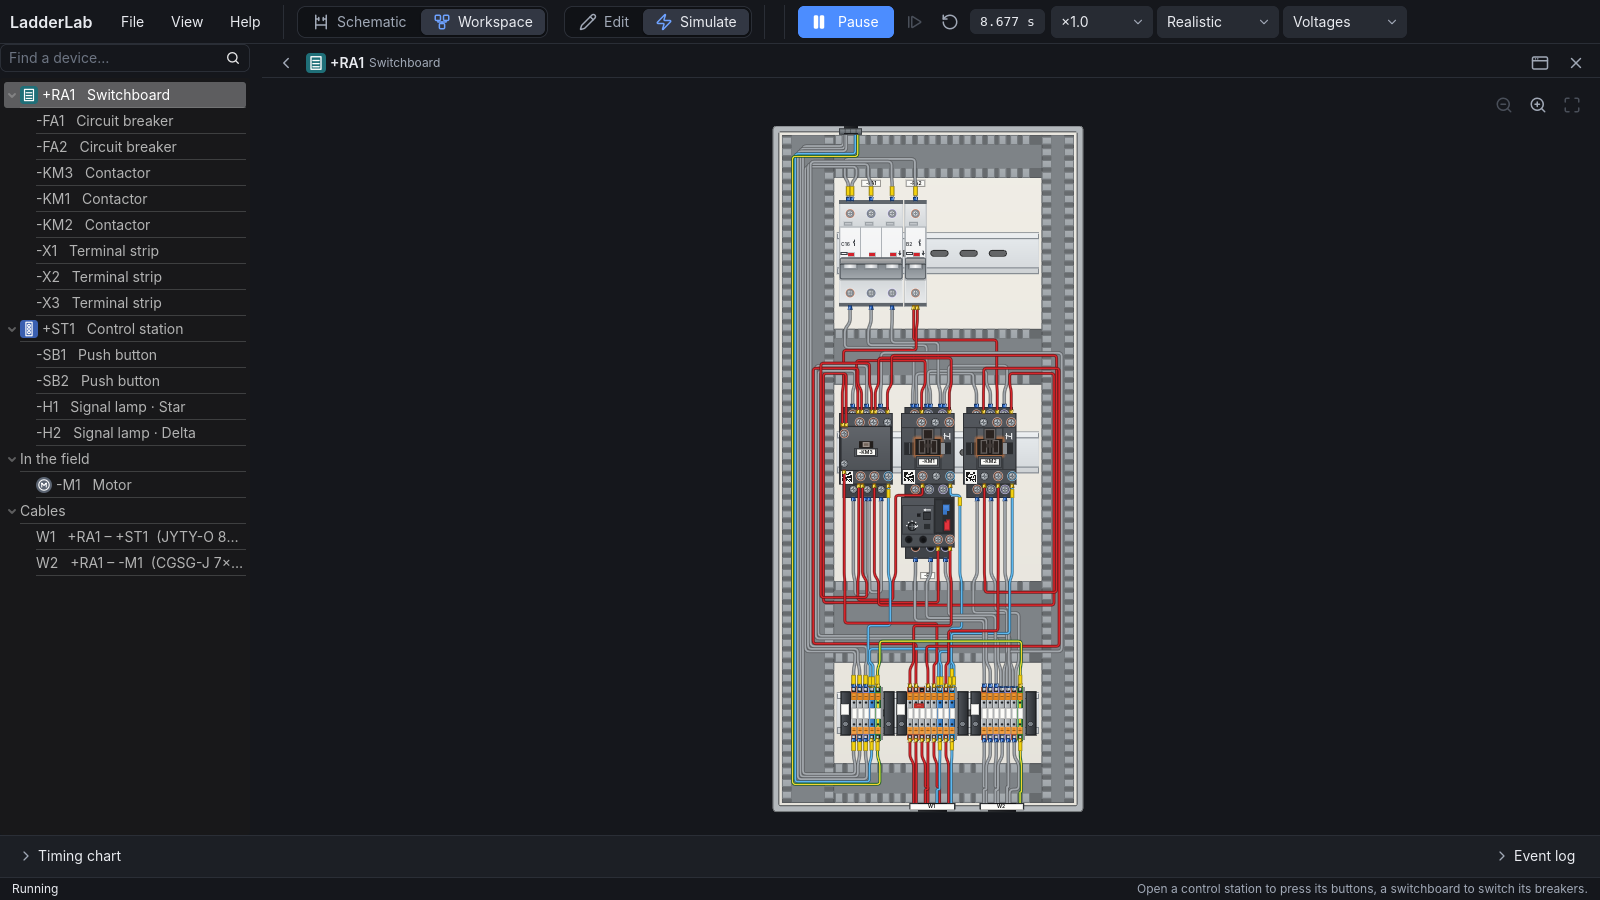
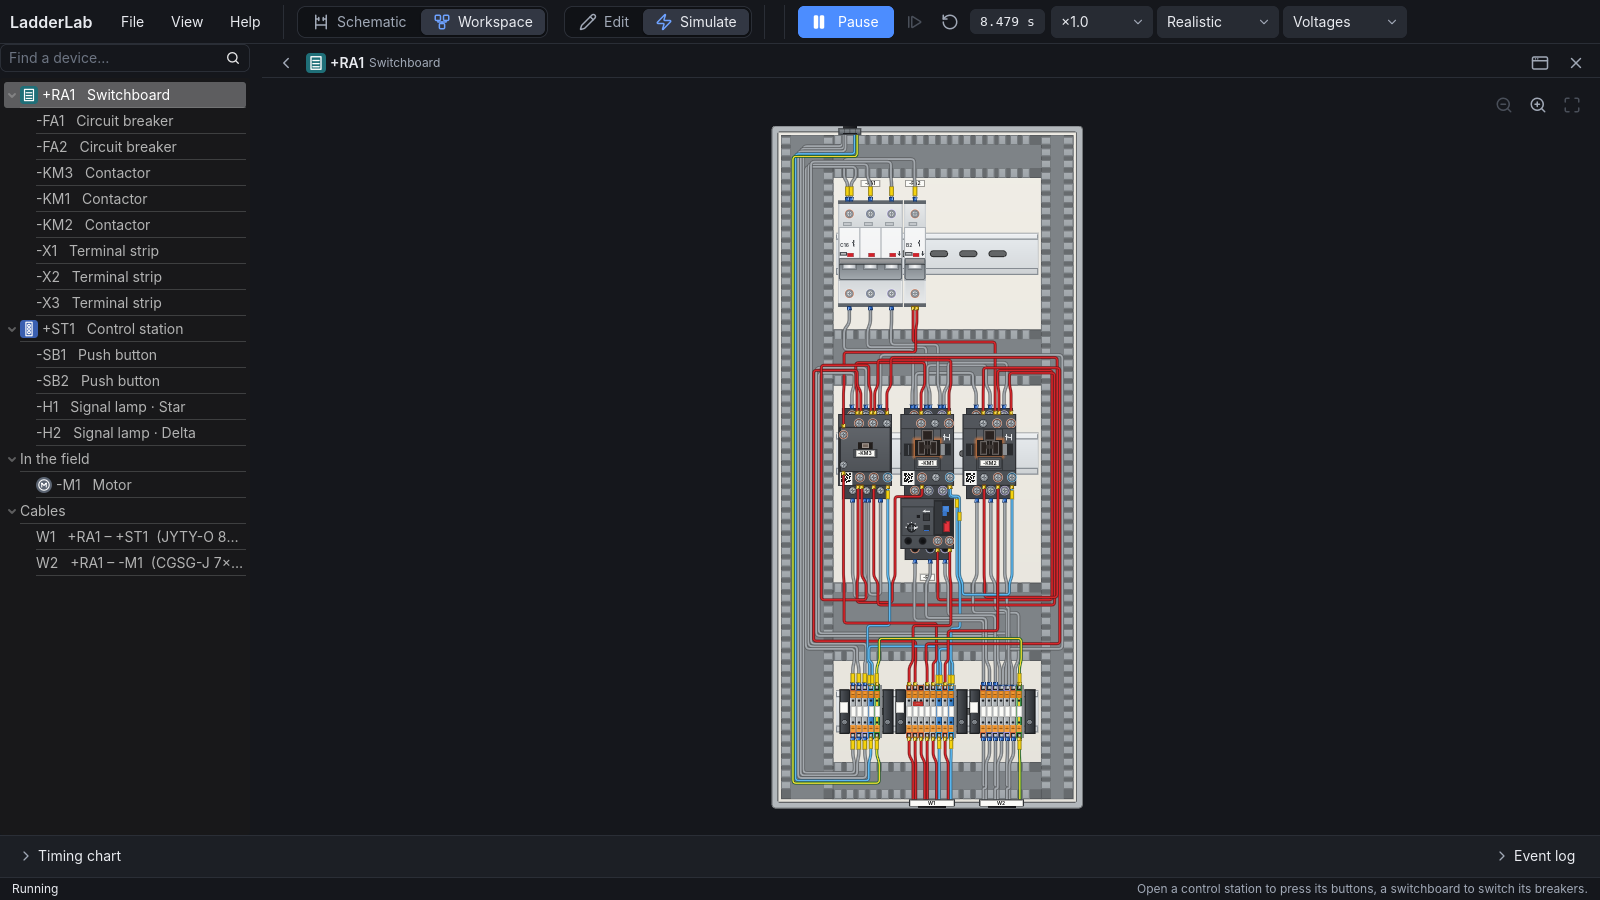
At most two wires in a switchboard terminal's clamp
The wiring tree of a net gives no terminal's clamp more than two wires:
where it would branch the net is looped from terminal to terminal (a
plug-in bridge takes no wire, a clamp keeps room for a wire on to
another switchboard). In the example circuits this is never longer than
branching: total wire length +0.1 %.

Changed region(s): [[0.4688, 0.1556, 0.6875, 0.9022], [0.6562, 0.2178, 0.6875, 0.2489]]

diff --git a/docs/DEVELOPMENT.md b/docs/DEVELOPMENT.md
@@ -312,7 +312,9 @@ Architecture and conventions of the code base. Read this before changing the cod
   the picked terminals along the strip), else by label; neighbouring terminals of one net
   are joined by a plug-in bridge instead of a wire (CabinetWiring.strip_bridges, the strip's
   desc "bridges"; red, blue on N; one point for the wiring tree; in the parts list). Wired after the circuit (CabinetWiring): each net
-  joins its terminals on the rails along the shortest tree, every wire straight from its terminal
+  joins its terminals on the rails along the shortest tree with at most two wires in any
+  terminal's clamp (CabinetWiring.CLAMP_WIRES: looped from terminal to terminal where it would
+  branch; a clamp keeps room for a wire on to another switchboard), every wire straight from its terminal
   towards the duct over or under its rail, past its sleeve, then one bend slanting into a slot
   between the fingers (CabinetWiring._slants: wires whose slants lie side by side bend at one
   height, the latest any needs and at most SLANT_MAX before the duct, the slots taking them in

diff --git a/CHANGELOG.md b/CHANGELOG.md
@@ -49,6 +49,8 @@ What changed in each LadderLab version. Version numbers follow the rules in
   instead of a wire; the parts list has the bridges
 - Every strip terminal on the lead of a part outside gets its own core in the cable to it,
   also where several terminals are on one net
+- No terminal in a switchboard takes more than two wires: nets are looped from terminal to
+  terminal instead of branching
 - Wires to the auxiliary contact block on a contactor's front run straight over the contactor;
   wires from a contactor's bottom terminals over its overload relay go straight down as far as
   they can before turning aside, and wires from its main contacts go behind the relay
